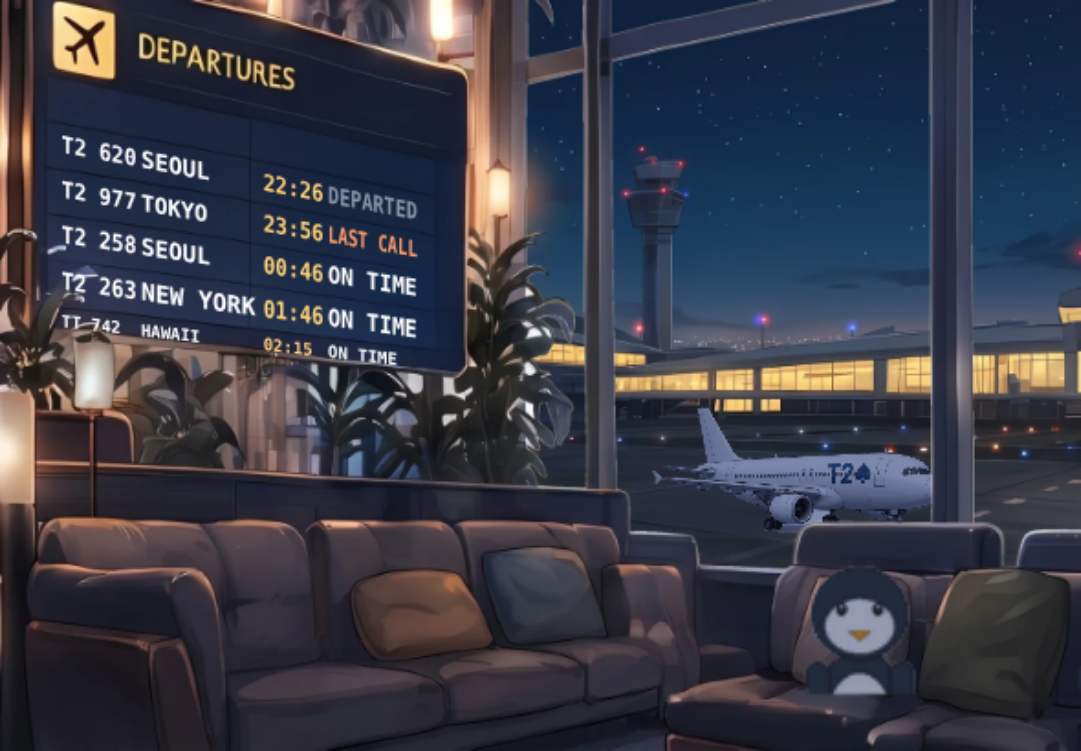
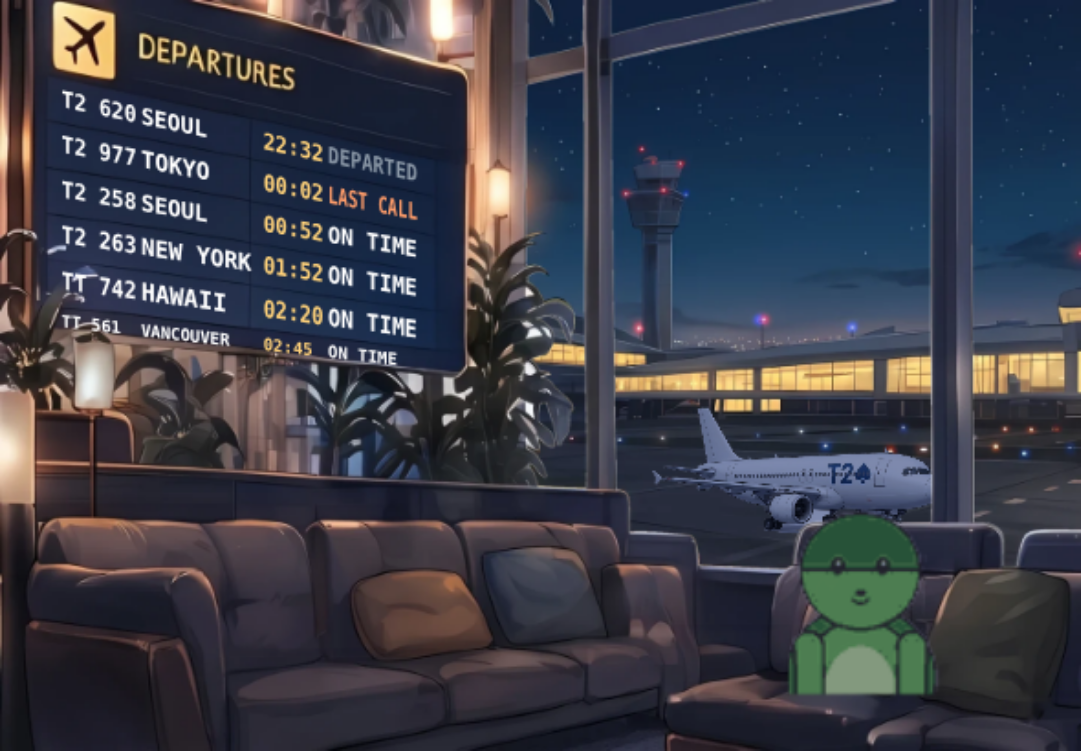
lounge: fill the board's top row too (six rows from the header line down)
The panel has a row between the header rule and the first detected line that
stayed empty. Its boundary is added, the board shows six rows, and boardRows
takes the row count from scene.json (default still five).

Claude-Session: https://claude.ai/code/session_012VFbGgDXK9mz8qoLwWp9w1

Changed region(s): [[0.0611, 0.1225, 0.3969, 0.4594], [0.7021, 0.6738, 0.8853, 0.9494]]

diff --git a/ui/web/lounge/board.js b/ui/web/lounge/board.js
@@ -41,12 +41,13 @@
     return 'ON TIME';
   }
 
-  function boardRows(tournaments, serverNowSec, nowMs) {
+  function boardRows(tournaments, serverNowSec, nowMs, rowCount) {
+    const ROWS_N = Number.isInteger(rowCount) && rowCount > 0 ? rowCount : ROWS;
     const nowSec = Number.isFinite(serverNowSec) ? serverNowSec : nowMs / 1000;
     const sorted = (Array.isArray(tournaments) ? tournaments : [])
       .filter(t => t && Number.isFinite(t.starts_at) && !['finished', 'retired'].includes(t.status))
       .sort((a, b) => a.starts_at - b.starts_at)
-      .slice(0, ROWS);
+      .slice(0, ROWS_N);
     const real = sorted.map(t => ({
       flight: 'T2 ' + (fnv1a(String(t.id)) % 900 + 100),
       dest: DESTINATIONS[t.key || t.fmt] || FALLBACK_DEST,
@@ -60,7 +61,7 @@
     const day = kstDateKey(nowMs);
     const cityOffset = fnv1a(day) % FAKE_CITIES.length;
     let minute = sorted.length ? kstMinuteOfDay(sorted[sorted.length - 1].starts_at * 1000) : kstMinuteOfDay(nowMs);
-    for (let i = real.length, j = 0; i < ROWS; i++, j++) {
+    for (let i = real.length, j = 0; i < ROWS_N; i++, j++) {
       minute = Math.ceil((minute + 25) / 5) * 5;
       rows.push({
         flight: 'TT ' + (fnv1a(day + ':' + i) % 900 + 100),

diff --git a/ui/web/lounge/lounge.js b/ui/web/lounge/lounge.js
@@ -82,7 +82,7 @@
       lastBoard = nowTs;
       const ms = clockMs();
       const serverSec = debug.clockMs === null ? (Date.now() + serverOffsetMs) / 1000 : ms / 1000;
-      rows = Board.boardRows(tournaments, serverSec, ms);
+      rows = Board.boardRows(tournaments, serverSec, ms, assets && assets.scene.board.rows);
       boardKey = rows.map(r => [r.flight, r.dest, r.time, r.status, r.mine].join('|')).join(';');
     }
 

diff --git a/art/tools/build_lounge_scene.py b/art/tools/build_lounge_scene.py
@@ -34,8 +34,8 @@ SCENE = {
     'characters': ['tiger', 'rabbit', 'turtle', 'penguin'],
     'window': {'x': 700, 'y': 0, 'w': 740, 'h': 700},
     # painted row boundaries of the panel, top to bottom, each [[x_left, y], [x_right, y]]
-    'board': {'x': 64, 'y': 161, 'w': 516, 'h': 338, 'rows': 5,
-              'lines': [[[64, 160.9], [580, 258.9]], [[64, 222.0], [580, 308.7]], [[64, 282.1], [580, 359.5]], [[64, 343.2], [580, 413.4]], [[64, 406.3], [580, 465.1]], [[64, 449.4], [580, 497.9]]]},
+    'board': {'x': 64, 'y': 101, 'w': 516, 'h': 398, 'rows': 6,
+              'lines': [[[64, 100.7], [580, 208.6]], [[64, 160.9], [580, 258.9]], [[64, 222.0], [580, 308.7]], [[64, 282.1], [580, 359.5]], [[64, 343.2], [580, 413.4]], [[64, 406.3], [580, 465.1]], [[64, 449.4], [580, 497.9]]]},
     'seats': [{'id': 's0', 'x': 430, 'y': 995}, {'id': 's1', 'x': 665, 'y': 995},
               {'id': 's2', 'x': 1145, 'y': 1050}, {'id': 's3', 'x': 1335, 'y': 1050}],
     'entries': {'left': -320, 'right': 1760},

diff --git a/docs/LOUNGE_SCENE_DESIGN.md b/docs/LOUNGE_SCENE_DESIGN.md
@@ -26,7 +26,7 @@
 - 계약에 추가된 항목: `size`의 높이는 그림에 따름(600~1400), `charScale`(캐릭터 전체 배율), 좌석별 발 기준선 `seats[].y`(걷는 캐릭터는 `baselineY`, 돌아서는 동안 둘 사이를 미끄러지듯 이동), `floorLight: null` 허용(바닥이 안 보이는 구도), 레이어의 `cutFrom`(다른 레이어에서 같은 마스크로 잘라 낸 레이어. 선화 일치 검사를 생략).
 - 소파 앞면(`sofaFront`, mid 그룹)은 실내 그림에서 다각형 마스크로 잘라 낸 것으로, 앉은 캐릭터의 하반신을 가린다.
 - 하늘은 그림에 칠해진 하늘을 쓴다(창밖 레이어가 불투명). 코드 하늘·해·달은 그 뒤에 가려진다. 계절 레이어는 아직 없다.
-- 안내판은 그림 속 패널에 그려진 줄 경계선(`board.lines`, 위에서 아래로 rows+1개, 각 [[왼쪽 x, y], [오른쪽 x, y]])을 따라 줄마다 기울여 그린다. 줄 수는 5.
+- 안내판은 그림 속 패널에 그려진 줄 경계선(`board.lines`, 위에서 아래로 rows+1개, 각 [[왼쪽 x, y], [오른쪽 x, y]])을 따라 줄마다 기울여 그린다. 제목 바로 아래 칸부터 6줄을 채운다.
 - 비행기: 창밖 레이어는 `far` 그룹이고, 그 위에 비행기를 그린 뒤 실내(`back`)를 덮는다. `scene.planes`의 주기(`period`)마다 `duration`초 동안 한 대가 지나가며 방향은 번갈아 바뀐다. 장면 시간 기준이라 결정적이다. 그림은 `art/cutouts/plane_*.png`에서 만든다.
 
 ---
